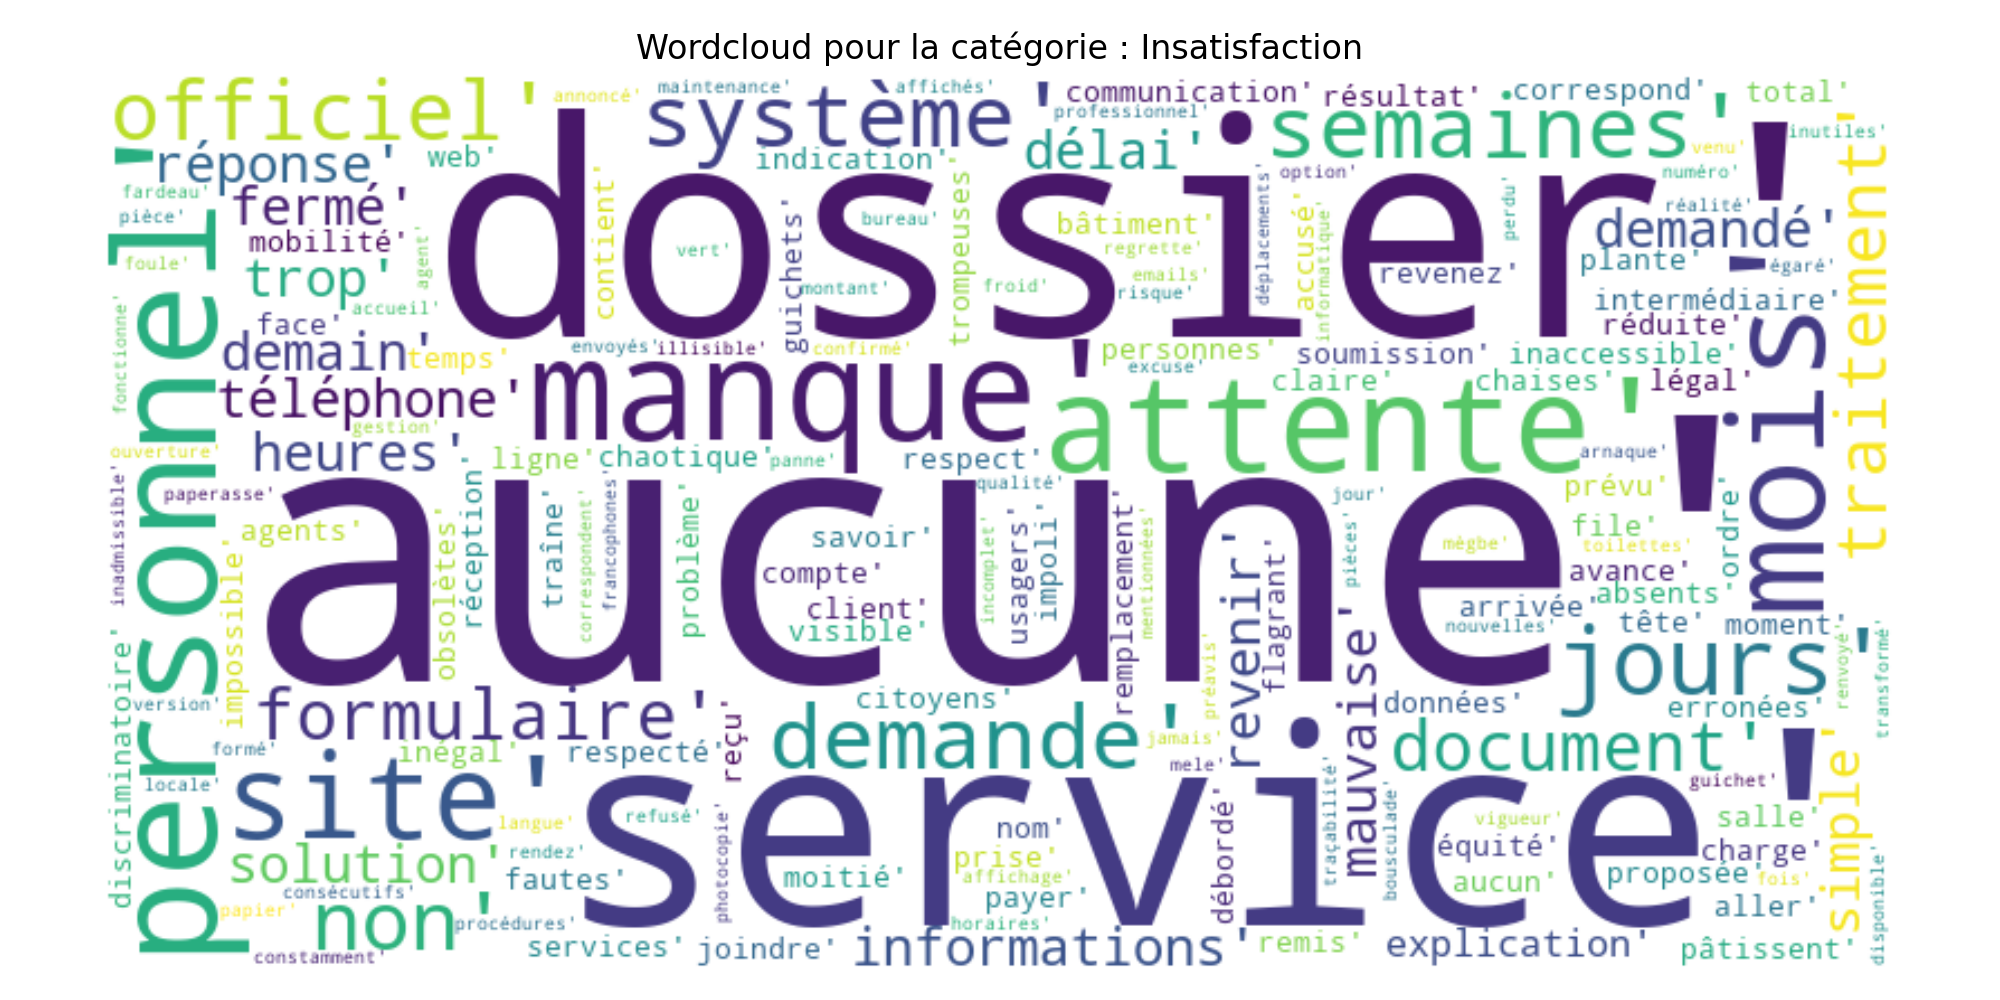
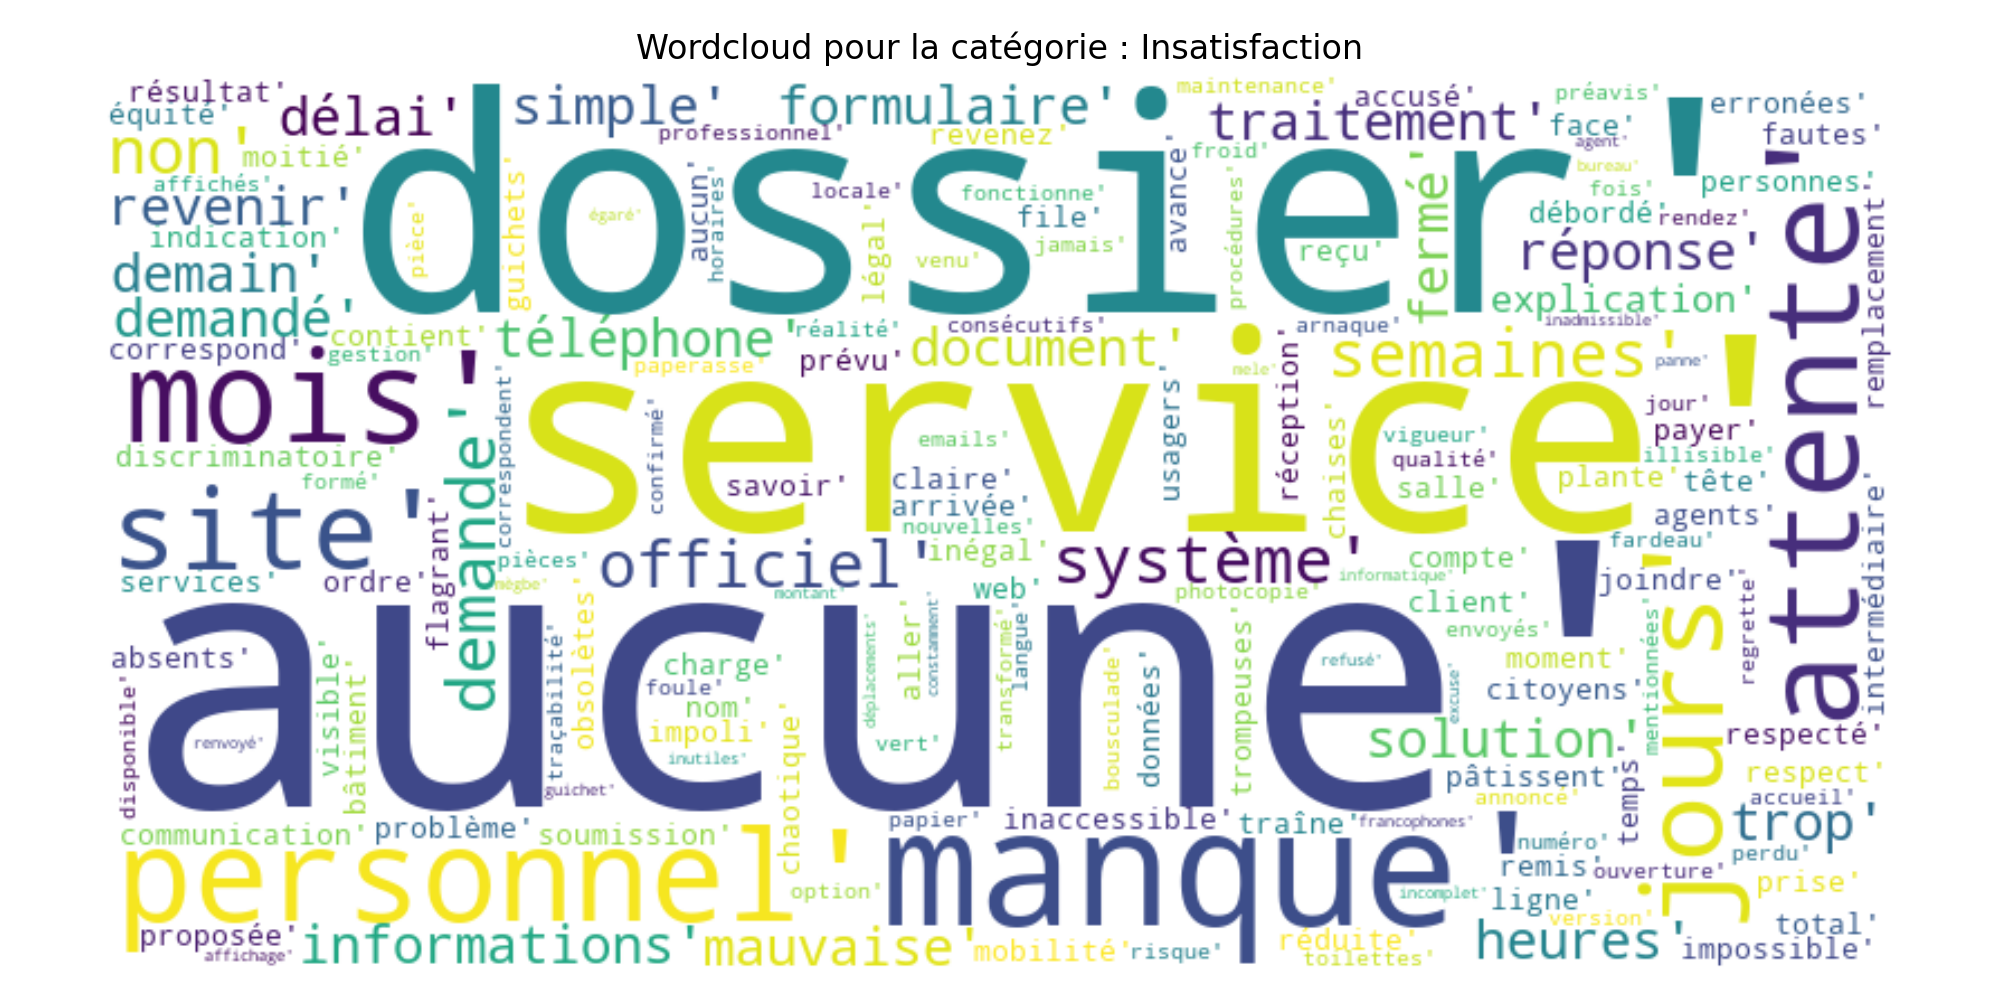
Mise à jour du code , modification du README et fine tuning d'un modele d'embeddings multilangue

diff --git a/README.md b/README.md
@@ -9,14 +9,14 @@ Auteur : *TENGA Cherif Abdel Azize - Data Scientist & AI Engineer*
 
 - **Objectif** : classer 150 commentaires citoyens en *Satisfaction*, *Insatisfaction* ou *Suggestion* (50 par classe, textes d'environ 9 à 10 mots).
 - **Prétraitement** : minuscules, suppression de la ponctuation et des chiffres, tokenisation NLTK, stopwords français (union NLTK + spaCy, 579 mots).
-- **Éwé / mina** : trois stratégies analysées (suppression, traduction, lexique de substitution), mais aucune n'est implémentée : ces mots restent dans le texte (limite identifiée).
+- **Éwé / mina** : trois stratégies analysées (suppression, traduction, lexique de substitution), mais le choix est de laisser ces mots dans le texte puis qu'il seront ignorer par le modele de vectorisation a priori.
 - **Vectorisation** : TF-IDF retenu (457 termes). Bag of Words et Word2Vec ont été explorés, sans être utilisés pour la classification.
 - **Modèles** : Naive Bayes, Régression logistique, SVM linéaire ; découpage 80/20 avec `random_state=42`.
 - **Résultats sur le jeu de test (30 avis)** : accuracy 0,47 / 0,53 / 0,53 et F1 macro 0,47 / 0,53 / 0,53 (Naive Bayes / Régression logistique / SVM).
 - **Validation croisée 5 plis (SVM, 150 avis)** : accuracy 0,66 et F1 macro 0,66, estimation plus fiable qu'un test de 30 avis.
 - **Erreurs** : 78 % des erreurs impliquent *Insatisfaction* ; la paire Insatisfaction ↔ Suggestion est la plus confondue (22 erreurs sur 51).
 - **Causes probables** : négations, vocabulaire thématique commun aux classes, *Suggestion* définie par une intention plutôt qu'un sentiment, textes très courts.
-- **Limites** : très peu de données, TF-IDF sans sémantique, éwé non traité, évaluation à forte variance.
+- **Limites** : très peu de données, TF-IDF sans sémantique, éwé non traité spécifiquement, évaluation à forte variance.
 - **Pistes** : modèle d'embeddings multilingue pré-entraîné (SetFit ou fine-tuning), lexique éwé, conservation des négations et n-grammes, clarification des consignes d'étiquetage.
 
 ---
@@ -81,7 +81,7 @@ Les nuages de mots par catégorie et les histogrammes de fréquence sont enregis
 3. **Stopwords** : union des listes NLTK (157 mots) et spaCy (507 mots), soit 579 mots uniques.
    *Justification* : une union est plus exhaustive qu'une liste seule, ce qui réduit le bruit sur un corpus où chaque mot compte.
 4. **Mots en éwé / mina** : trois options ont été comparées :
-   - suppression : simple, mais elle efface parfois le seul indice de polarité (ex. « Yèvu service la nyuie hafi! », classé *Satisfaction*) ;
+   - suppression : simple, mais elle efface parfois le seul indice de polarité ;
    - traduction automatique : peu adaptée à un texte qui mélange deux langues ;
    - substitution par un lexique : la plus fiable, mais elle demande de construire et de faire valider le lexique.
    **Aucune n'a été appliquée à ce stade** : les mots éwé restent dans le texte comme des tokens ordinaires.
@@ -138,7 +138,7 @@ Chacun des 150 avis est prédit par un modèle qui ne l'a pas vu pendant l'entra
 
 **Matrice de confusion** (lignes = classe réelle, colonnes = classe prédite) :
 
-| Réel ↓ / Prédit → | Insatisfaction | Satisfaction | Suggestion |
+| Réel  / Prédit -> | Insatisfaction | Satisfaction | Suggestion |
 |---|---|---|---|
 | **Insatisfaction** | **27** | 10 | 13 |
 | **Satisfaction** | 8 | **37** | 5 |
@@ -154,13 +154,13 @@ Chacun des 150 avis est prédit par un modèle qui ne l'a pas vu pendant l'entra
 
 | Paire confondue | Erreurs | Détail |
 |---|---|---|
-| Insatisfaction ↔ Suggestion | **22** | 13 + 9 |
-| Insatisfaction ↔ Satisfaction | **18** | 10 + 8 |
-| Satisfaction ↔ Suggestion | **11** | 5 + 6 |
+| Insatisfaction <-> Suggestion | **22** | 13 + 9 |
+| Insatisfaction <-> Satisfaction | **18** | 10 + 8 |
+| Satisfaction <-> Suggestion | **11** | 5 + 6 |
 
 1. **L'Insatisfaction est au centre des erreurs** : 40 erreurs sur 51 (78 %) l'impliquent, avec le rappel le plus bas (0,54).
 2. **La Satisfaction est la mieux reconnue** (F1 = 0,72), probablement grâce à un vocabulaire d'évaluation très marqué (« bien », « bonne », « satisfait »).
-3. **Les confusions vont dans les deux sens** (13 Insatisfaction → Suggestion contre 9 Suggestion → Insatisfaction). Cela suggère un **recouvrement réel** entre classes plutôt qu'un biais du modèle. Les écarts entre sens sont trop faibles, à 50 exemples par classe, pour être interprétés.
+3. **Les confusions vont dans les deux sens** (13 Insatisfaction → Suggestion contre 9 Suggestion -> Insatisfaction). Cela suggère un **recouvrement réel** entre classes plutôt qu'un biais du modèle. Les écarts entre sens sont trop faibles, à 50 exemples par classe, pour être interprétés.
 
 ### 7.2 Cinq exemples mal classés
 
@@ -171,8 +171,8 @@ Les textes sont affichés après prétraitement. Le « score » est la valeur de
 | 80 | formations régulières personnel amélioreraient qualité service | Suggestion → Satisfaction | 0,23 | « qualité » et « service » dominent le vocabulaire de la Satisfaction. Le seul marqueur de suggestion est le conditionnel « amélioreraient », forme rare que TF-IDF ne généralise pas (pas de lemmatisation). |
 | 143 | système prise rendez ligne pratique | Satisfaction → Suggestion | 0,20 | « système », « ligne » et « rendez » sont des termes fréquents des Suggestions (thème des démarches en ligne). Le modèle suit le **sujet** et non le **sentiment**. |
 | 25 | publier résultats enquêtes satisfaction transparence | Suggestion → Insatisfaction | −0,29 | Score négatif : le modèle n'avait pas de signal net. Les mots sont rares dans le corpus, et l'infinitif « publier » n'a pas été appris comme marqueur de suggestion. |
-| 10 | site web inaccessible jours | Insatisfaction → Suggestion | 0,15 | Seulement 4 tokens après prétraitement, donc très peu de signal. « site » et « jours » existent dans les deux classes. |
-| 74 | service classe aucune remarque négative | Satisfaction → Insatisfaction | 0,16 | **Double négation** : « aucune » (premier terme de l'Insatisfaction) et « négative » orientent vers l'Insatisfaction, alors que l'avis est positif. Un modèle de mots isolés ne capte pas ce renversement. |
+| 10 | site web inaccessible jours | Insatisfaction -> Suggestion | 0,15 | Seulement 4 tokens après prétraitement, donc très peu de signal. « site » et « jours » existent dans les deux classes. |
+| 74 | service classe aucune remarque négative | Satisfaction -> Insatisfaction | 0,16 | **Double négation** : « aucune » (premier terme de l'Insatisfaction) et « négative » orientent vers l'Insatisfaction, alors que l'avis est positif. Un modèle de mots isolés ne capte pas ce renversement. |
 
 ### 7.3 Synthèse des causes
 
@@ -186,14 +186,14 @@ Les textes sont affichés après prétraitement. Le « score » est la valeur de
 
 ## 8. Conclusion
 
-Un pipeline complet (exploration, nettoyage, TF-IDF, trois classifieurs, évaluation, analyse d'erreurs) a été construit. Les performances restent **modestes** : environ 66 % d'accuracy en validation croisée, soit le double du hasard (33 %). Les trois classifieurs obtiennent des résultats proches, ce qui indique que le **facteur limitant est la représentation du texte (et la taille des données), non le choix de l'algorithme**. L'analyse d'erreurs confirme que les échecs viennent surtout de la négation, du vocabulaire partagé entre classes et du caractère « intention » de la classe Suggestion.
+Un pipeline complet (exploration, nettoyage, TF-IDF, trois classifieurs, évaluation, analyse d'erreurs) a été construit. Les performances restent **modestes** : environ 66 % d'accuracy en validation croisée, soit le double du hasard (33 %). Les trois classifieurs obtiennent des résultats proches, ce qui indique que le **facteur limitant est la représentation du texte (et la taille des données), non le choix de l'algorithme**. L'analyse d'erreurs confirme que les échecs viennent surtout de la négation qui n'est pas bien gerer par le modèle de vectorisation, du vocabulaire partagé entre classes et du caractère « intention » de la classe Suggestion.
 
 ### Limites
 
-- **Très peu de données** : 150 avis, un test de 30 avis (±18 points), une validation croisée à ±8 points. Un écart de 1 à 2 points de F1 n'est pas interprétable.
+- **Très peu de données** : 150 avis, un test de 30 avis (+-18 points), une validation croisée à +-8 points. Un écart de 1 à 2 points de F1 n'est pas interprétable.
 - **TF-IDF ajusté sur tout le jeu avant le découpage** : le vocabulaire et les pondérations IDF ont vu les avis de test. Le biais est probablement faible mais réel ; un `Pipeline` scikit-learn l'éliminerait.
 - **Négations potentiellement supprimées** : les listes de stopwords standard contiennent généralement « ne » et « pas », et la contrainte de plus de 2 lettres élimine d'autres petits mots porteurs de sens.
-- **Éwé / mina non traités** : ces mots, parfois seuls porteurs de la polarité, sont ignorés ou mal vectorisés.
+- **Éwé / mina non traités juste laisser comme tel dans le corpus** : ces mots, parfois seuls porteurs de la polarité, sont ignorés ou mal vectorisés.
 - **Comparaison de modèles sur un seul test de 30 avis** : seul le SVM a été évalué en validation croisée.
 - **Analyse d'erreurs sur 5 cas** : un échantillon trop petit pour généraliser, les causes restent des hypothèses.
 
@@ -204,4 +204,3 @@ Un pipeline complet (exploration, nettoyage, TF-IDF, trois classifieurs, évalua
 3. **Mieux traiter la négation** : retirer « ne », « pas », « aucune », « sans » de la liste de stopwords, utiliser des n-grammes (1-2) et une lemmatisation spaCy.
 4. **Clarifier les classes** : relire les erreurs Insatisfaction ↔ Suggestion, rédiger une règle d'étiquetage pour les avis mixtes, voire passer en classification multi-étiquette.
 5. **Évaluation plus rigoureuse** : validation croisée répétée pour tous les modèles, `Pipeline` pour éviter la fuite de données, stratification du découpage.
-6. **Bonus possibles** : interface de démonstration (Streamlit ou Gradio) et gestion explicite des commentaires mixtes français / éwé-mina.
